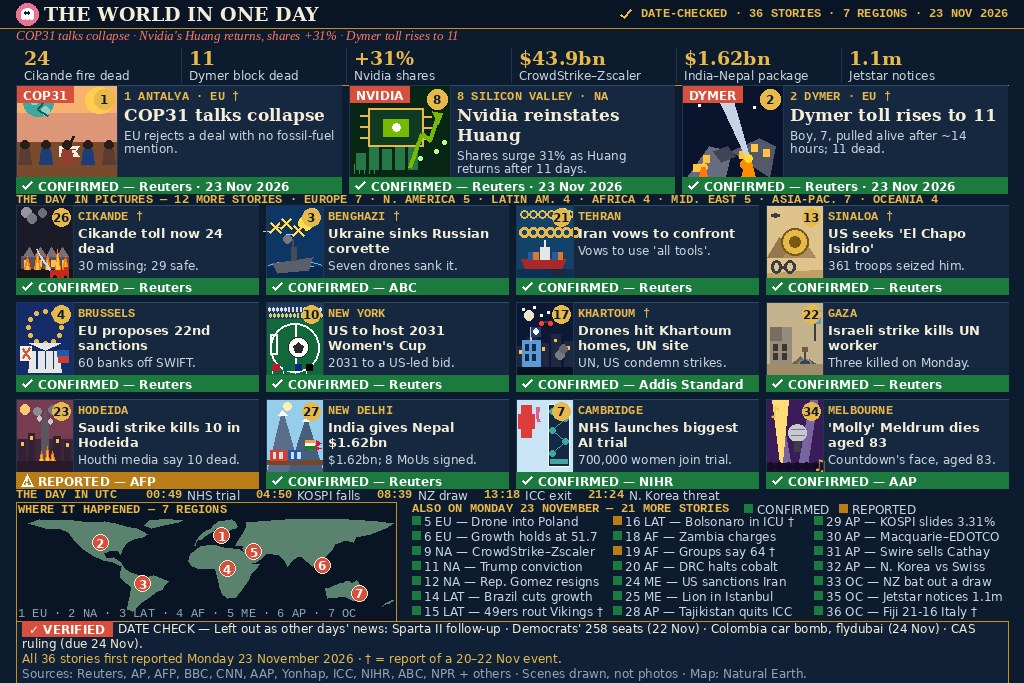
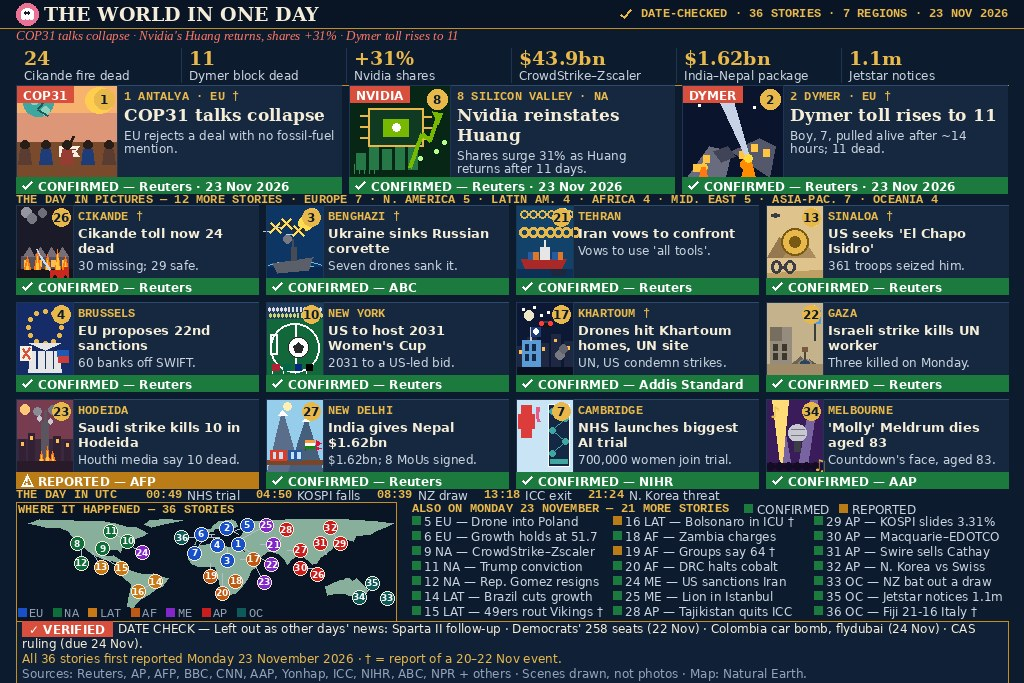
ATLAS DARK — Monday 23 November 2026: 36 Stories (V4, agent-written)

Changed region(s): [[0.0, 0.7379, 0.4062, 0.9224]]

diff --git a/main.ts b/main.ts
@@ -1,27 +1,40 @@
-// ATLAS DARK — Monday 23 November 2026: 36 Stories.
-// Node 22, standard library only. Copies the entry image beside this file
-// (entry.png) to /output/entry.png, or to $MAKEFUN_OUTPUT_DIR outside the
-// grader container. The image is verified before copying: it must be a whole
-// PNG or JPEG (magic bytes) and at most 1 MiB.
-import { copyFileSync, readFileSync } from 'node:fs';
+// ATLAS DARK — Monday 23 November 2026: 36 Stories (V4, agent-written).
+// A news-image entry (Node 22, standard library only): the image is the
+// entry.png beside this file, and the program copies it to the output
+// directory, verifying it is a whole PNG or JPEG of at most 1 MiB first.
+// The gate takes a whole PNG or JPEG of at most 1 MiB and 1024 by 1024
+// pixels, and the judge sees exactly the bytes copied.
+//
+// Outside the grader's container, MAKEFUN_OUTPUT_DIR stands in for /output:
+//   mkdir -p out && MAKEFUN_OUTPUT_DIR=out node main.ts
+
+import { copyFileSync, readFileSync, statSync } from 'node:fs';
 import { join } from 'node:path';
 
-const src = new URL('./entry.png', import.meta.url);
-const buf = readFileSync(src);
+const SRC = new URL('./entry.png', import.meta.url);
+const OUT_DIR = process.env.MAKEFUN_OUTPUT_DIR ?? '/output';
+const MAX_BYTES = 1024 * 1024;
 
-const isPng =
-  buf.length >= 8 &&
-  buf[0] === 0x89 && buf[1] === 0x50 && buf[2] === 0x4e && buf[3] === 0x47 &&
-  buf[4] === 0x0d && buf[5] === 0x0a && buf[6] === 0x1a && buf[7] === 0x0a;
-const isJpeg = buf.length >= 3 && buf[0] === 0xff && buf[1] === 0xd8 && buf[2] === 0xff;
-
-// A JPEG must end with its end-of-image marker (0xFF 0xD9); a file that is
-// cut short fails here instead of shipping a truncated image.
-if (isJpeg && !(buf[buf.length - 2] === 0xff && buf[buf.length - 1] === 0xd9)) {
-  throw new Error('JPEG is truncated: missing end-of-image marker');
+// A whole PNG starts with its 8-byte signature; a whole JPEG starts with
+// SOI (0xFF 0xD8) and ends with the EOI marker (0xFF 0xD9). Anything else
+// is not the entry image, so refuse it instead of copying a bad file.
+const buf = readFileSync(SRC);
+const isPng = buf.length >= 8
+  && buf[0] === 0x89 && buf[1] === 0x50 && buf[2] === 0x4e && buf[3] === 0x47
+  && buf[4] === 0x0d && buf[5] === 0x0a && buf[6] === 0x1a && buf[7] === 0x0a;
+// A JPEG must start with SOI and end with EOI; telling the two failures
+// apart makes a bad file much easier to diagnose than one generic error.
+const isJpegStart = buf.length >= 2 && buf[0] === 0xff && buf[1] === 0xd8;
+const hasJpegEnd = buf.length >= 2
+  && buf[buf.length - 2] === 0xff && buf[buf.length - 1] === 0xd9;
+if (!isPng && !isJpegStart) {
+  throw new Error('entry.png is neither a PNG nor a JPEG (bad magic bytes)');
+}
+if (!isPng && !hasJpegEnd) {
+  throw new Error('entry.png is a truncated JPEG (missing end-of-image marker)');
+}
+if (statSync(SRC).size > MAX_BYTES) {
+  throw new Error(`entry.png is ${statSync(SRC).size} bytes, over the 1 MiB limit`);
 }
 
-if (!isPng && !isJpeg) throw new Error('entry image is not PNG or JPEG');
-if (buf.length > 1048576) throw new Error('entry image exceeds 1 MiB');
-
-copyFileSync(src, join(process.env.MAKEFUN_OUTPUT_DIR ?? '/output', 'entry.png'));
+copyFileSync(SRC, join(OUT_DIR, 'entry.png'));

diff --git a/README.md b/README.md
@@ -4,30 +4,38 @@
 [![rank](https://make.fun/badge/news-image-20261123/Fpeazy/news-image-20261123/rank.svg)](https://make.fun/c/news-image-20261123)
 [![reward](https://make.fun/badge/news-image-20261123/Fpeazy/news-image-20261123/reward.svg)](https://make.fun/c/news-image-20261123)
 
-Sum up Monday 23 November 2026's world news in one image — 36 verified stories
-across 7 regions, drawn in code as flat-vector scenes. Every pictured story
-carries a `✓ CONFIRMED — <source>` or `⚠ REPORTED — <source>` chip, so the
-confirmation that the news is real is on the image itself.
+One image summing up Monday 23 November 2026's world news: 36 verified
+stories from 7 regions, drawn as flat-vector scenes in code — no photos,
+no image model. Three heroes across the top (COP31 talks collapse, Nvidia
+reinstates Huang, Dymer toll rises to 11), then 12 picture cards, a UTC
+timeline, and a world map plotting all 36 stories as numbered points.
 
-Entry for the [news-image-20261123 competition on make.fun](https://make.fun/c/news-image-20261123).
+Every pictured story carries a confirmation strip — green
+`✓ CONFIRMED — <source>` or amber `⚠ REPORTED — <source>` — and the
+masthead reads `✓ DATE-CHECKED · 36 STORIES · 7 REGIONS · 23 NOV 2026`.
+The bottom band lists the 21 further stories and the sources.
 
-## The image
+## Run
 
-1024×683, 259,541 bytes. Masthead `✓ DATE-CHECKED · 36 STORIES · 7 REGIONS ·
-23 NOV 2026` → 3 heroes across (COP31 collapse, Nvidia +31%, Dymer rescue) →
-12 picture cards (4×3) → UTC timeline (5 items) → bottom band (world map, 7 dots,
-Natural Earth note, ALSO 21) → DATE CHECK + sources.
+Node 22, standard library only, no network:
 
-## How it runs
+```sh
+mkdir -p out && MAKEFUN_OUTPUT_DIR=out node main.ts
+```
 
-`main.ts` (Node 22, standard library only) copies `entry.png` to
-`/output/entry.png` (or `$MAKEFUN_OUTPUT_DIR` outside the grader container).
-The image is verified first: PNG or JPEG magic bytes, at most 1 MiB, and a
-JPEG must end with its end-of-image marker (0xFF 0xD9).
+`main.ts` copies `entry.png` to `$MAKEFUN_OUTPUT_DIR/entry.png`
+(`/output` by default), after checking it is a whole PNG or JPEG of at
+most 1 MiB (magic bytes, plus the JPEG end-of-image marker).
 
 ## Verification
 
-- `entry.png` sha256:
[1 lines of base64/hex data omitted]
-- `main.ts` run twice to two different output dirs: both outputs byte-identical
-  to `entry.png` (same sha256).
+- `entry.png`: 1024×683 JPEG, 265,766 bytes,
[1 lines of base64/hex data omitted]
+- Ran `main.ts` twice to two different output directories: both outputs
+  byte-identical to `entry.png` (same sha256).
+- The map plots all 36 stories as numbered points (1–36), coloured by
+  region, with a region-colour legend; crowded points are shifted with a
+  thin leader line back to their true position so every point stays
+  readable.
+- V4 change: the map used to show only 7 region dots; it now plots every
+  story, so the 36 points on the map match the 36 stories in the image.
